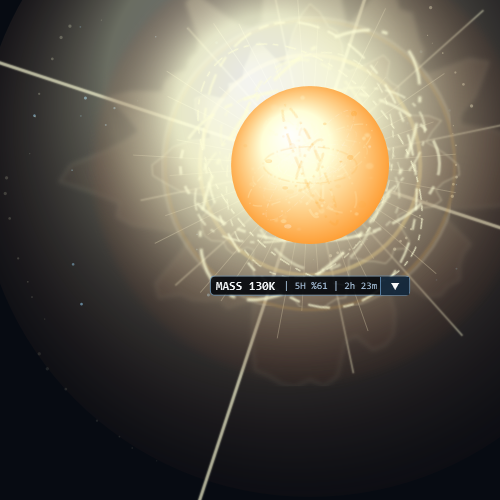
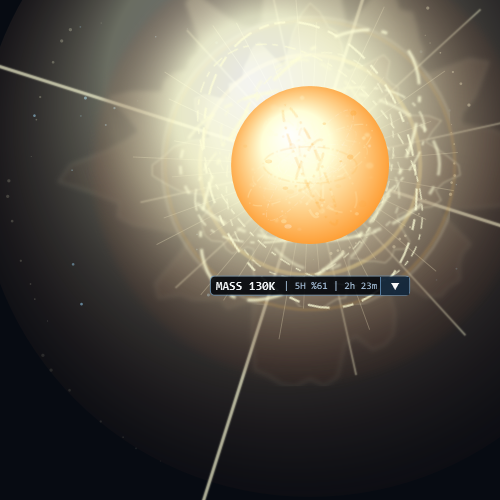
feat: center and lock token overlay

diff --git a/README.md b/README.md
@@ -52,6 +52,8 @@ powershell.exe -NoProfile -ExecutionPolicy Bypass -File .\.claude-token-star\ins
   limit, reset time, and seven-day limit.
 - Use `1x`, `2x`, or `3x` at the bottom of the menu to resize the star. `1x` is
   one-third of the original size; `3x` is the original size.
+- Check `Lock position` to prevent accidental dragging. Uncheck it to move the
+  star again.
 - The star hides when you switch to another project.
 
 <img src="assets/overlay-token-details.png" width="500" alt="Token details and star size menu">
